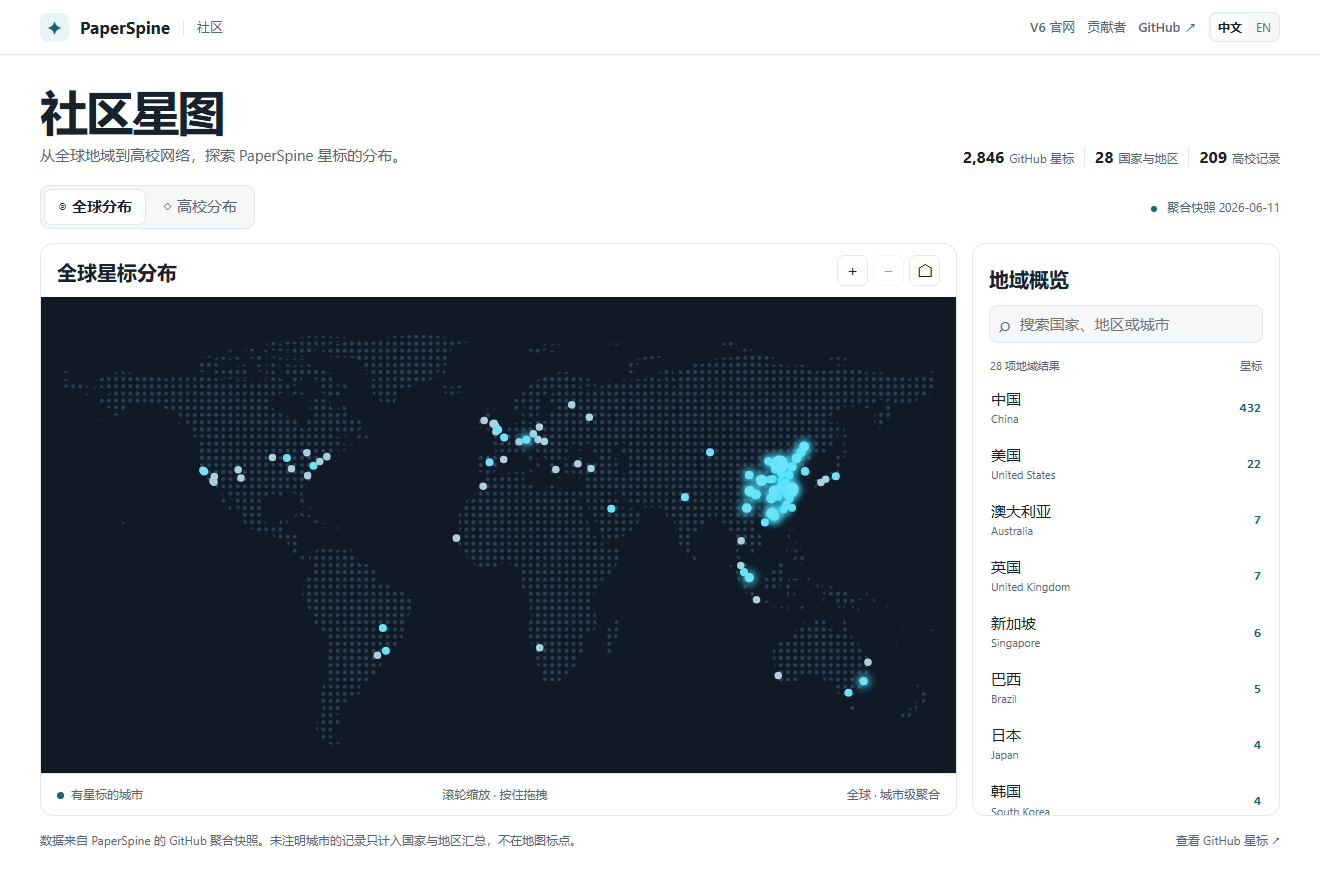
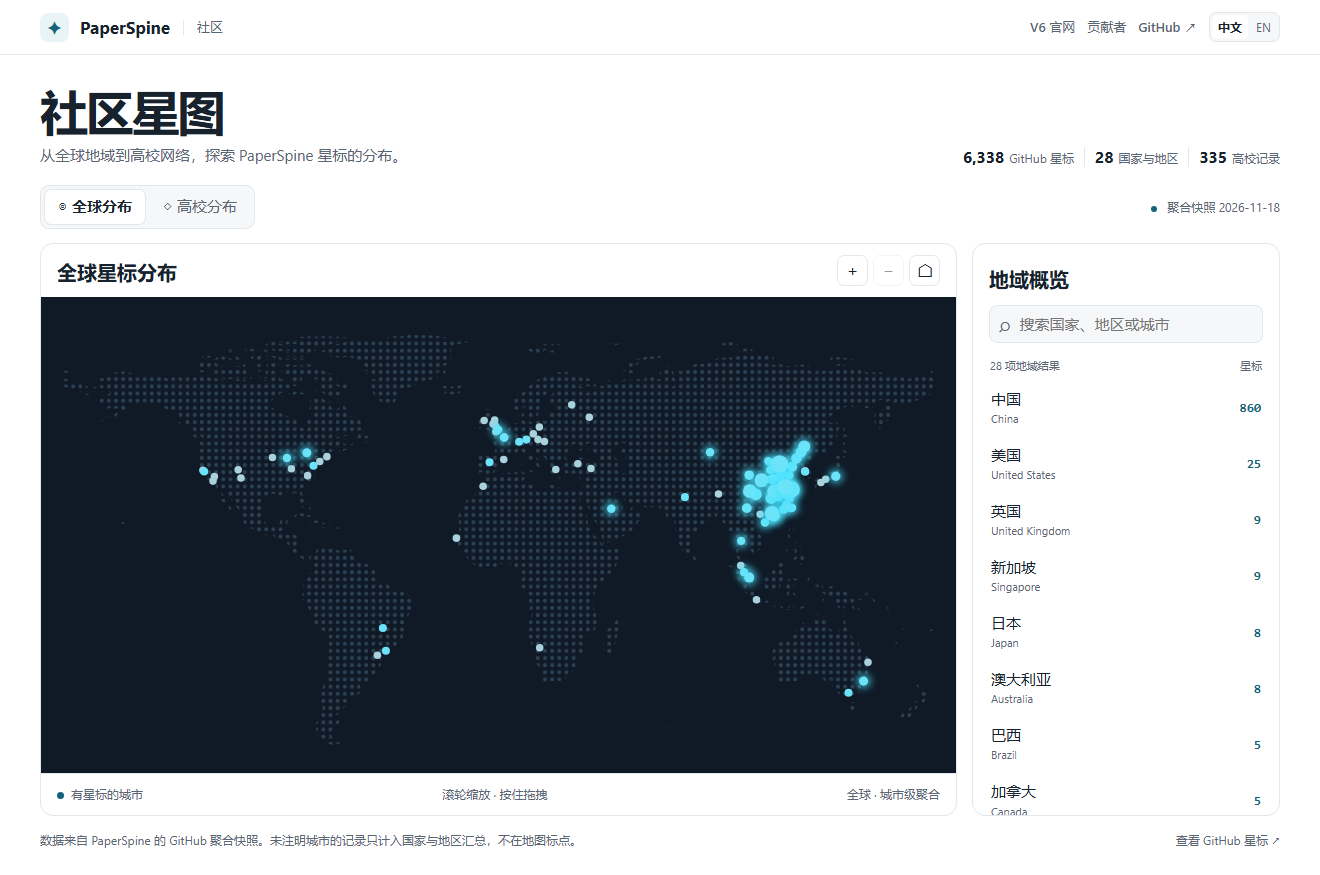
Add README badges and connect hosted atlas preview

diff --git a/README.zh-CN.md b/README.zh-CN.md
@@ -13,7 +13,31 @@
 
 <p align="center">
   <a href="#install-with-ai"><strong>快速开始</strong></a> · <a href="#quick-demo">演示</a> · <a href="#research-cases">科研案例</a><br>
-  <small><a href="https://wubing2023.github.io/PaperSpine/v6/zh/">官网</a> · <a href="README.md">English</a> · <strong>简体中文</strong></small>
+  <small><a href="https://wubing2023.github.io/PaperSpine/v6/zh/">官网</a> · <a href="INSTALL-V6.md">安装文档</a> · <a href="#ways-to-work">版本选择</a> · <a href="https://lauyanng.github.io/PaperSpine/zh.html">社区星图</a></small>
+</p>
+
+<p align="center">
+  <a href="https://github.com/WUBING2023/PaperSpine/releases/tag/v6.0.0-beta.2"><img src="https://img.shields.io/static/v1?label=%E5%8F%91%E8%A1%8C%E7%89%88&amp;message=v6.0.0-beta.2&amp;color=ad512a&amp;style=flat" height="22" alt="发行版"></a>
+  <a href="https://github.com/WUBING2023/PaperSpine/stargazers"><img src="https://img.shields.io/github/stars/WUBING2023/PaperSpine?style=flat&amp;label=GitHub+%E6%98%9F%E6%A0%87&amp;color=b36529" height="22" alt="GitHub 星标"></a>
+  <a href="LICENSE"><img src="https://img.shields.io/github/license/WUBING2023/PaperSpine?style=flat&amp;label=%E8%AE%B8%E5%8F%AF%E8%AF%81&amp;color=47566c" height="22" alt="许可证"></a>
+  <a href="https://github.com/WUBING2023/PaperSpine/actions/workflows/validate.yml"><img src="https://github.com/WUBING2023/PaperSpine/actions/workflows/validate.yml/badge.svg?branch=main" height="22" alt="Skill 校验"></a>
+  <a href="https://wubing2023.github.io/PaperSpine/contributors/zh.html"><img src="https://img.shields.io/github/contributors/WUBING2023/PaperSpine?style=flat&amp;label=%E8%B4%A1%E7%8C%AE%E8%80%85&amp;color=336384" height="22" alt="贡献者"></a>
+  <a href="https://github.com/WUBING2023/PaperSpine/issues?q=is%3Aissue+is%3Aclosed"><img src="https://img.shields.io/github/issues-closed/WUBING2023/PaperSpine?style=flat&amp;label=%E5%B7%B2%E5%85%B3%E9%97%AD%E8%AE%AE%E9%A2%98&amp;color=5c6785" height="22" alt="已关闭议题"></a>
+  <a href="https://github.com/WUBING2023/PaperSpine/commits/main/"><img src="https://img.shields.io/github/commit-activity/m/WUBING2023/PaperSpine?style=flat&amp;label=%E6%8F%90%E4%BA%A4%E6%B4%BB%E8%B7%83%E5%BA%A6&amp;color=437c60" height="22" alt="提交活跃度"></a>
+</p>
+
+<p align="center">
+  <sub>V6</sub>
+  <a href="README.md"><img src="https://img.shields.io/static/v1?label=&amp;message=English&amp;color=e8e9ec&amp;style=flat" height="22" alt="English"></a>
+  <a href="README.zh-CN.md"><img src="https://img.shields.io/static/v1?label=&amp;message=%E7%AE%80%E4%BD%93%E4%B8%AD%E6%96%87&amp;color=4b5563&amp;style=flat" height="22" alt="简体中文"></a>
+  <br><sub>V5 翻译</sub>
+  <a href="README.ja.md"><img src="https://img.shields.io/static/v1?label=&amp;message=%E6%97%A5%E6%9C%AC%E8%AA%9E&amp;color=e8e9ec&amp;style=flat" height="22" alt="日本語"></a>
+  <a href="README.ko.md"><img src="https://img.shields.io/static/v1?label=&amp;message=%ED%95%9C%EA%B5%AD%EC%96%B4&amp;color=e8e9ec&amp;style=flat" height="22" alt="한국어"></a>
+  <a href="README.es.md"><img src="https://img.shields.io/static/v1?label=&amp;message=Espa%C3%B1ol&amp;color=e8e9ec&amp;style=flat" height="22" alt="Español"></a>
+  <a href="README.fr.md"><img src="https://img.shields.io/static/v1?label=&amp;message=Fran%C3%A7ais&amp;color=e8e9ec&amp;style=flat" height="22" alt="Français"></a>
+  <a href="README.de.md"><img src="https://img.shields.io/static/v1?label=&amp;message=Deutsch&amp;color=e8e9ec&amp;style=flat" height="22" alt="Deutsch"></a>
+  <a href="README.pt.md"><img src="https://img.shields.io/static/v1?label=&amp;message=Portugu%C3%AAs&amp;color=e8e9ec&amp;style=flat" height="22" alt="Português"></a>
+  <a href="README.ru.md"><img src="https://img.shields.io/static/v1?label=&amp;message=%D0%A0%D1%83%D1%81%D1%81%D0%BA%D0%B8%D0%B9&amp;color=e8e9ec&amp;style=flat" height="22" alt="Русский"></a>
 </p>
 
 <a id="quick-demo"></a>
@@ -191,9 +215,9 @@ Followwriting 短片演示如何借鉴论证写法、用本研究的结果落笔
 
 ## 开发与社区
 
-<a href="https://wubing2023.github.io/PaperSpine/zh.html"><img src="paperspine5/core/07_发布页/v6/readme/rounded/community-atlas-preview-zh.webp" width="790" alt="新版 PaperSpine 社区星图，展示全球星标分布、地域概览和高校分布入口。"></a>
+<a href="https://lauyanng.github.io/PaperSpine/zh.html"><img src="paperspine5/core/07_发布页/v6/readme/rounded/community-atlas-preview-zh.webp" width="790" alt="新版 PaperSpine 社区星图，展示全球星标分布、地域概览和高校分布入口。"></a>
 
-[查看各轮 V6 更新的贡献](https://wubing2023.github.io/PaperSpine/contributors/zh.html#v6-contributions) · [浏览社区星图](https://wubing2023.github.io/PaperSpine/zh.html)
+[查看各轮 V6 更新的贡献](https://wubing2023.github.io/PaperSpine/contributors/zh.html#v6-contributions) · [浏览社区星图](https://lauyanng.github.io/PaperSpine/zh.html)
 
 [中文官网](https://wubing2023.github.io/PaperSpine/v6/zh/) · [V6 源码](paperspine5/core/01_PaperSpine4/src/skill-editions/) · [安装管理器](paperspine5/core/06_插件化/release/edition_manager.py) · [官网源码](paperspine5/core/07_发布页/v6/) · [问题反馈](https://github.com/WUBING2023/PaperSpine/issues) · <a id="press-kit"></a>[项目素材](https://wubing2023.github.io/PaperSpine/v6/science/paperspine-v6-press-kit.zip)
 
